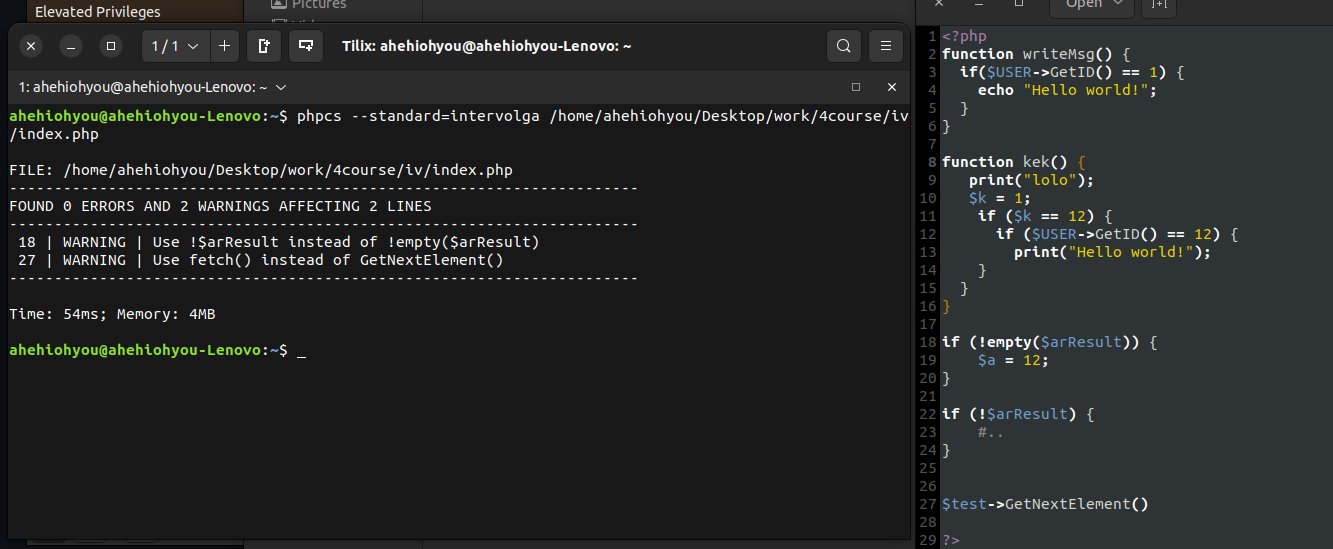
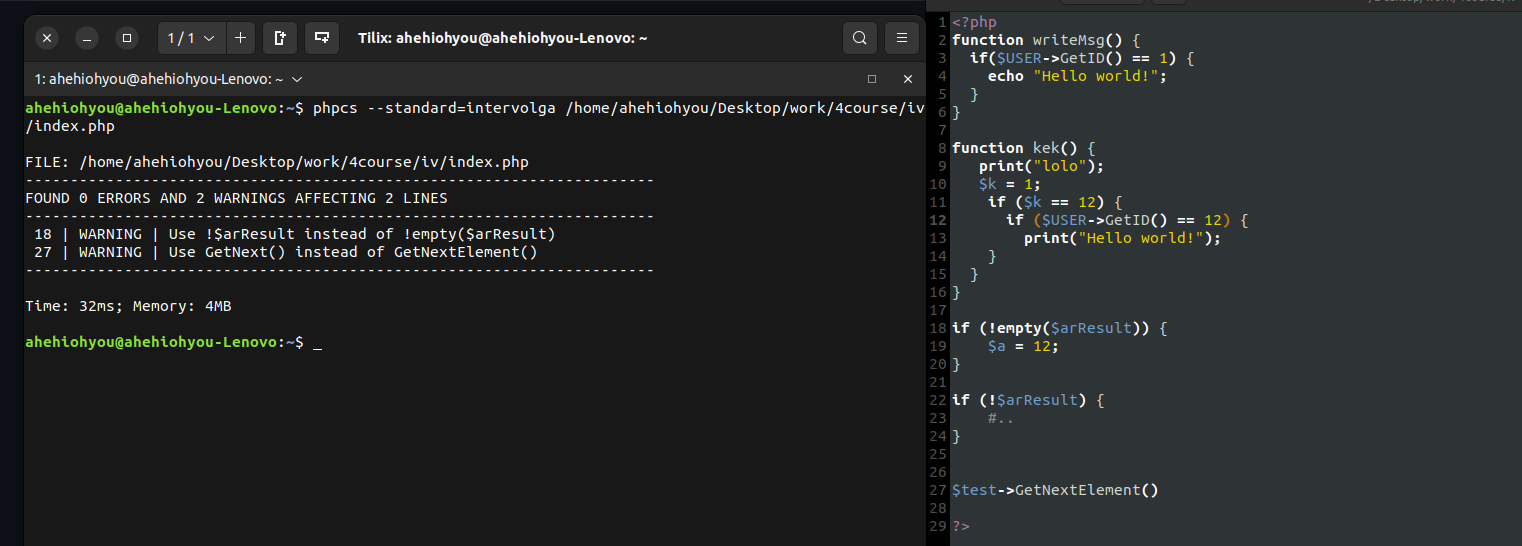
Add files via upload

diff --git a/intervolga/Sniffs/PHP/BadMethodSniff.php b/intervolga/Sniffs/PHP/BadMethodSniff.php
@@ -17,7 +17,7 @@ class BadMethodSniff implements Sniff
 		$tokens = $phpcsFile->getTokens();
 		$next = $phpcsFile->findNext(T_WHITESPACE, $stackPtr + 1, null, true);
 		if ($tokens[$next]['code'] === T_STRING && $tokens[$next]['content'] === 'GetNextElement') {
-			$phpcsFile->addWarning('Use fetch() instead of GetNextElement()', $stackPtr, 'BadMethod');
+			$phpcsFile->addWarning('Use GetNext() instead of GetNextElement()', $stackPtr, 'BadMethod');
 		}
 	}
 	
